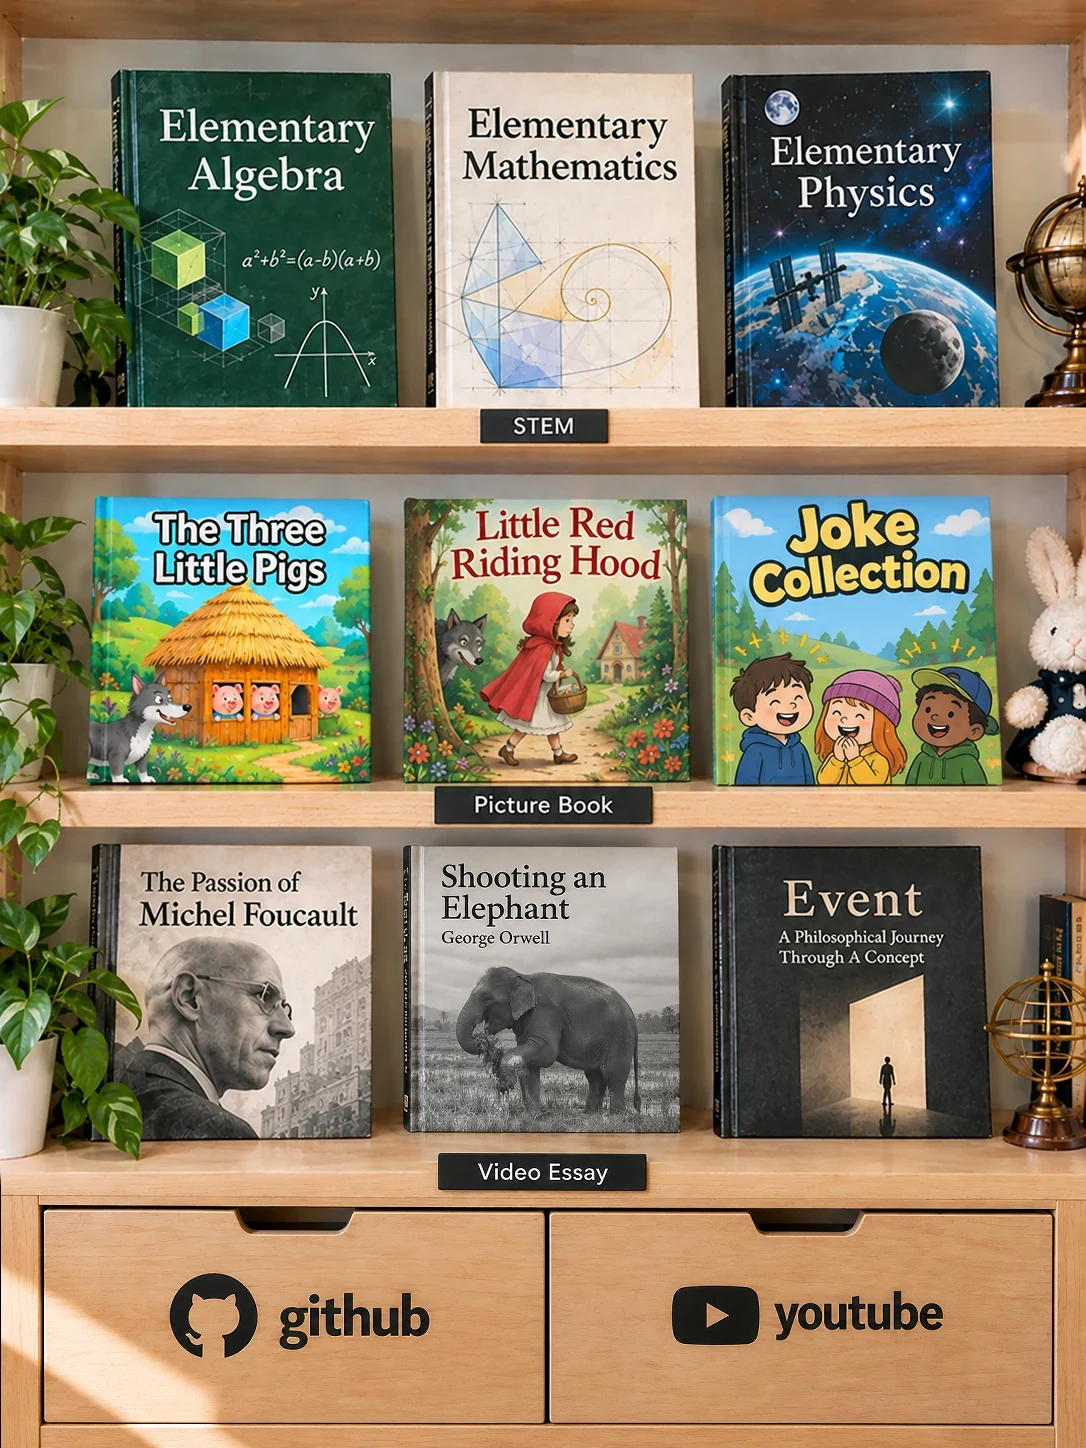
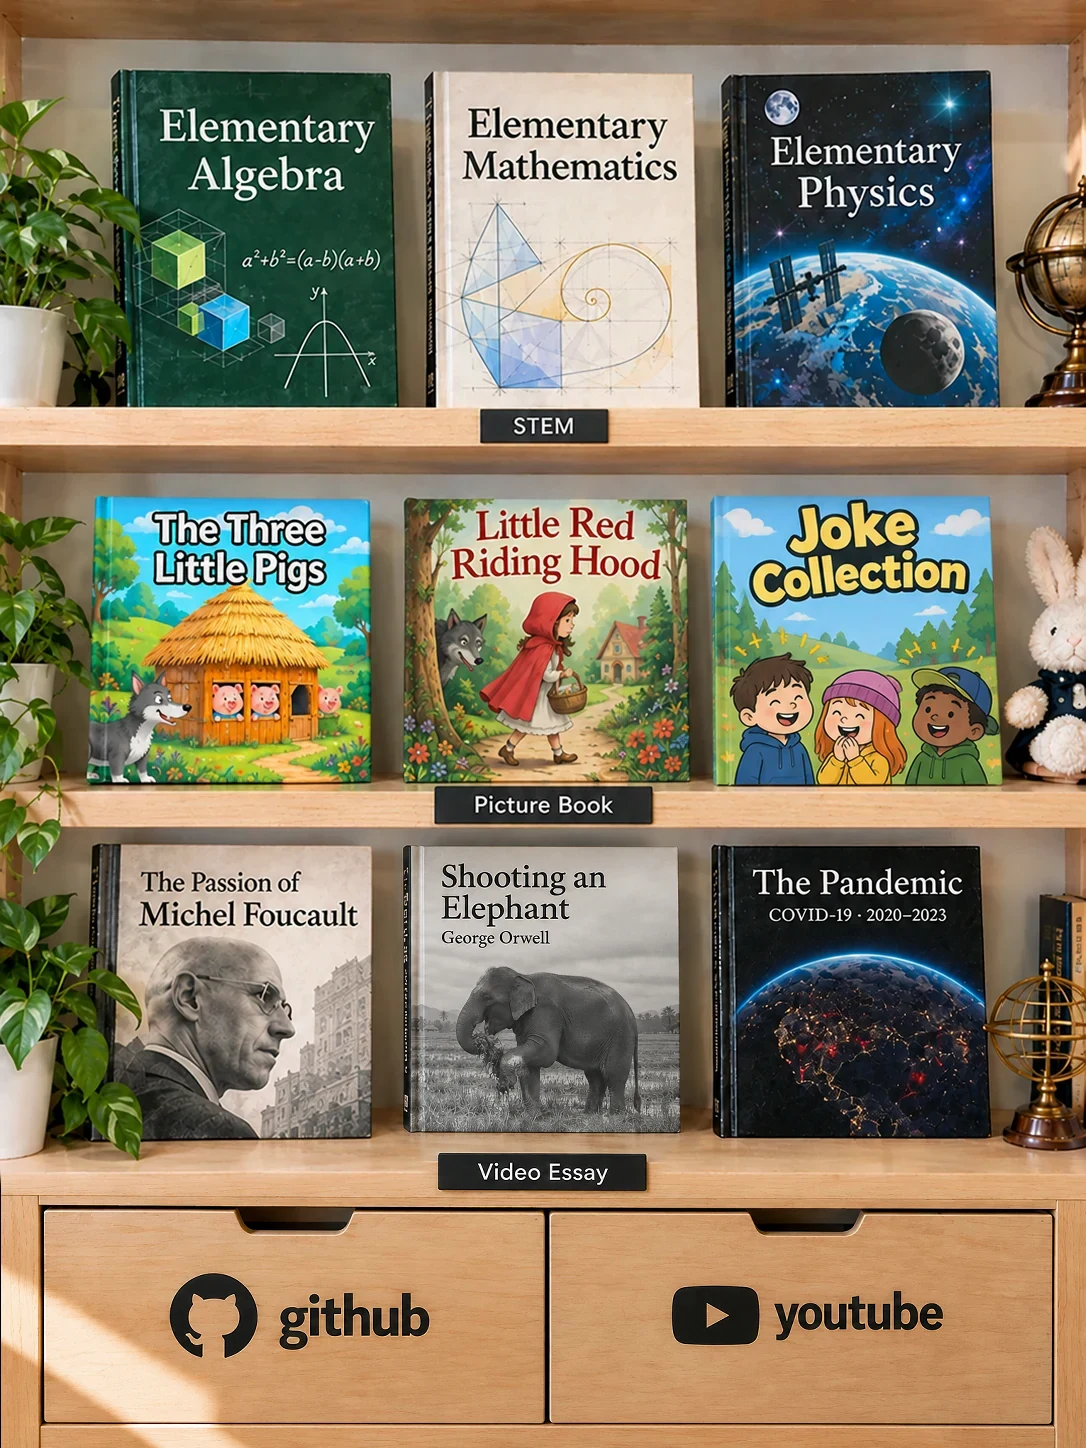
feat(shelf): The Pandemic on the bottom shelf, with a page on how it was made
- bookshelf photo: the placeholder "Event" book replaced by "The Pandemic"
  (image model edit, only that book's area pasted back into the photo)
- site/pandemic/index.html: the film's entry and how it was made, with sources
- film title is now "The Pandemic"; /pandemic/ no longer redirects to the shelf
- SOURCES.md: world map is Natural Earth 50m with OWID stay-at-home data

Changed region(s): [[0.6381, 0.5905, 0.9116, 0.808]]

diff --git a/site/pandemic/index.html b/site/pandemic/index.html
@@ -1,0 +1,176 @@
+<!doctype html>
+<html lang="en">
+<head>
+<meta charset="utf-8">
+<meta name="viewport" content="width=device-width, initial-scale=1">
+<title>The Pandemic</title>
+<meta name="description" content="A seven-minute documentary on COVID-19, from Wuhan to the unanswered question of where it came from, and how it was made with the Papermorph Skill.">
+<link rel="stylesheet" href="lib/fonts.css">
+<link rel="stylesheet" href="lib/book.css"><!-- only for --progress-key, if the book sets one -->
+<style>
+  :root { --ink: #2b2520; --soft: #6a6258; --paper: #ece3cd; --card: #f6f1e4; --line: #d8ccb2; --accent: #e5402f; --night: #15171c;
+    --ui: "Avenir Next", "Segoe UI", "Helvetica Neue", Arial, sans-serif; --serif: "EB Garamond", "Iowan Old Style", Palatino, Georgia, serif;
+    --key: "Oswald", "Avenir Next Condensed", "Arial Narrow", sans-serif; color-scheme: light; }
+  * { box-sizing: border-box; }
+  body { margin: 0; background: var(--paper); color: var(--ink); font: 19px/1.62 var(--serif); }
+  a { color: inherit; }
+  .top { background: var(--night); color: #f3ede0; }
+  .top nav { max-width: 1180px; margin: 0 auto; padding: 18px 24px 0; font: 500 14px/1 var(--key); letter-spacing: .14em; text-transform: uppercase; }
+  .top nav a { color: #d9b9b0; text-decoration: none; }
+  header { display: grid; grid-template-columns: minmax(0, 1.25fr) minmax(0, 1fr); gap: 40px; align-items: center; max-width: 1180px; margin: 0 auto; padding: 28px 24px 52px; }
+  header .film { position: relative; display: block; border-radius: 6px; overflow: hidden; box-shadow: 0 18px 50px #0008; }
+  header .film img { display: block; width: 100%; height: auto; }
+  header .film span { position: absolute; left: 18px; bottom: 16px; padding: 10px 18px; background: var(--accent); color: #fff; font: 600 16px/1 var(--key); letter-spacing: .12em; text-transform: uppercase; }
+  header .film:hover span, header .film:focus-visible span { background: #c8301f; }
+  .kicker { margin: 0 0 6px; color: var(--accent); font: 500 14px/1.2 var(--key); letter-spacing: .16em; text-transform: uppercase; }
+  h1 { margin: 0 0 10px; font: 600 clamp(40px, 5.4vw, 66px)/1 var(--key); letter-spacing: .02em; text-transform: uppercase; }
+  .lede { margin: 0 0 14px; font-size: 21px; color: #e6dccb; }
+  .meta { margin: 0; color: #b3a99a; font: 15px/1.5 var(--ui); }
+  .watched .meta::after { content: " · ✓ watched"; color: var(--accent); }
+  main { max-width: 760px; margin: 0 auto; padding: 24px 24px 40px; }
+  main h2 { margin: 56px 0 8px; font: 600 26px/1.2 var(--key); letter-spacing: .06em; text-transform: uppercase; }
+  main h2:first-child { margin-top: 32px; }
+  main p { margin: 0 0 16px; }
+  figure { margin: 26px -60px; }
+  figure img { display: block; width: 100%; height: auto; border-radius: 4px; box-shadow: 0 8px 26px #4a33182e; }
+  figcaption { margin: 8px 60px 0; color: var(--soft); font: 15px/1.5 var(--ui); }
+  .pair { display: grid; grid-template-columns: 1fr 1fr; gap: 14px; } .pair figcaption { grid-column: 1 / -1; margin-top: -6px; }
+  ol.steps { padding-left: 22px; } ol.steps li { margin-bottom: 8px; }
+  blockquote { margin: 18px 0; padding: 4px 0 4px 18px; border-left: 4px solid var(--accent); font-style: italic; }
+  .numbers { display: grid; grid-template-columns: repeat(3, 1fr); gap: 12px; margin: 18px 0; }
+  .numbers div { background: var(--card); border: 1px solid var(--line); border-radius: 6px; padding: 14px 16px; }
+  .numbers b { display: block; font: 600 30px/1.1 var(--key); color: var(--accent); }
+  .numbers span { font: 14px/1.4 var(--ui); color: var(--soft); }
+  code { font-size: .86em; background: #e2d7bd; padding: 1px 5px; border-radius: 3px; }
+  .credits { max-width: 1000px; margin: 20px auto 70px; padding: 0 24px; color: var(--soft); font: 14px/1.6 var(--ui); }
+  .credits h2 { font: 600 20px/1.3 var(--key); letter-spacing: .06em; text-transform: uppercase; color: var(--ink); }
+  .credits h3 { font-size: 13px; letter-spacing: .06em; text-transform: uppercase; margin: 18px 0 6px; color: var(--ink); }
+  .credits ul { margin: 0; padding-left: 18px; columns: 2 340px; }
+  @media (max-width: 860px) { figure { margin: 22px 0; } figcaption { margin: 8px 0 0; } }
+  @media (max-width: 760px) { header { grid-template-columns: 1fr; gap: 24px; } header .film span { left: 10px; bottom: 10px; padding: 7px 11px; font-size: 13px; } .pair, .numbers { grid-template-columns: 1fr; } }
+</style>
+</head>
+<body>
+<div class="top">
+  <nav><a href="../">← Bookshelf</a></nav>
+  <header id="film">
+    <a class="film" href="ch01/"><img src="img/cover.webp" width="1400" height="788" alt="The night globe behind two numbers: 7,115,706 confirmed COVID-19 deaths, and 27,000,000 estimated from excess deaths."><span>▶ Watch the film</span></a>
+    <div>
+      <p class="kicker">A documentary · COVID-19</p>
+      <h1>The Pandemic</h1>
+      <p class="lede">From a market in Wuhan to a world that stopped, the waves, the count of the dead, and the question nobody has answered: where it came from.</p>
+      <p class="meta">7 minutes · English with subtitles · made with the Papermorph Skill</p>
+    </div>
+  </header>
+</div>
+
+<main>
+  <h2>What we set out to do</h2>
+  <p>Our earlier documentary, <a href="../madness/"><i>Madness and Civilization</i></a>, is pictures and words. This one tries the other kind of explainer, the kind Vox and Johnny Harris make: maps that move, numbers that land on the word that says them, documents pulled into frame and marked up. The subject was chosen for that: the pandemic happened on a map, day by day, and almost everything about it was counted.</p>
+  <p>Before any frame was made, Claude studied three of those videos cut by cut and wrote down how each transition works: what carries the eye from one picture to the next, where the camera goes, how long a number stays on screen. Those notes, not a style sheet, were the brief.</p>
+
+  <h2>One map, all the way through</h2>
+  <p>The film has one spine: a warm paper map of the world with a date chip in the corner. It comes back in every part with something new on it: one dot in Wuhan, then the train lines out of the city before the New Year, then the countries telling people to stay home, then the deaths per million, wave after wave.</p>
+  <figure class="pair">
+    <img src="img/making/paper.webp" width="1200" height="675" alt="The paper map zoomed in on Wuhan, with the chip December 2019." loading="lazy">
+    <img src="img/making/migration.webp" width="1200" height="675" alt="Railway lines leaving Wuhan on the paper map, with a clock at 2:38 a.m. on 23 January 2020." loading="lazy">
+    <figcaption>The paper map in December 2019, then the night before Wuhan closed: trains still leaving at 2:38 a.m.</figcaption>
+  </figure>
+  <p>When the story leaves one place for the whole world, the map becomes a night globe (three.js, NASA's Black Marble city lights). Both are drawn in the same orthographic projection, so the globe can turn, push in, and become the paper map without a cut. The countries are Natural Earth outlines, projected once with d3-geo into small script files, so the finished page needs no server and no map service.</p>
+  <figure>
+    <img src="img/making/genes.webp" width="1200" height="675" alt="The night globe seen from above the North Pole, red arcs from Europe to New York and a grey one from Asia, under the line Most of New York's early cases came from Europe." loading="lazy">
+    <figcaption>The globe turned over the pole, so Asia and Europe can both reach New York in one picture.</figcaption>
+  </figure>
+
+  <h2>One source for every number</h2>
+  <p>Every number on screen comes from one named source, written in small type under it: Our World in Data for cases, deaths, vaccines and stay-at-home orders; Wikipedia for events and dates; the WHO's own transcript for its words. The two do not always agree. Our World in Data counts by the day a death was reported, so it lags behind the news: by its count Italy passed China a few days after Wikipedia says it did. Where they disagree, the narration was written around the date rather than mixing the two.</p>
+  <p>Counters roll up as the voice says the number and stop exactly on it. The stay-at-home map counts the countries as the date runs, so when the narration says “more than a hundred and twenty”, the counter reads 121 and the date chip shows the first day that was true.</p>
+  <figure>
+    <img src="img/making/who.webp" width="1200" height="675" alt="The WHO Director-General's remarks of 11 March 2020 on a paper card, with the word pandemic and the phrase cases in 114 countries highlighted." loading="lazy">
+    <figcaption>The WHO's words of 11 March 2020, highlighted as they are spoken. A first version stamped PANDEMIC across the screen; the user turned it down, and the transcript replaced it.</figcaption>
+  </figure>
+
+  <h2>A part at a time</h2>
+  <p>It began as a 107-second sample: the cold open, Wuhan, the doctors who were silenced, and the trains. The user watched it, liked it, and asked for the rest of the same film, one part at a time, under ten minutes. Every part went through the same steps:</p>
+  <ol class="steps">
+    <li><b>Research.</b> The Wikipedia articles and the Our World in Data tables, saved locally with their revision numbers.</li>
+    <li><b>Narration</b>, written in our own words, with a mark on every word that triggers something on screen.</li>
+    <li><b>Voice.</b> ElevenLabs v4, the voice “Roger”, sped up 1.1 times. The word times it returns place every mark.</li>
+    <li><b>Beats</b>, built in code and checked on contact sheets of stills before anything moved.</li>
+    <li><b>Music.</b> One track per part from Google's Lyria 3, levelled to the others, crossfading over two seconds so the music never stops.</li>
+    <li><b>Review.</b> The part exported as a video, and a fresh Claude, with no memory of making it, watching the frames as a director.</li>
+  </ol>
+  <figure>
+    <img src="img/making/waves.webp" width="1200" height="675" alt="The world map shaded by deaths per million in April 2021, with a Delta pin on India, above two curves of cases and deaths a day." loading="lazy">
+    <figcaption>The waves: one map and two curves that keep running, with a pin for each variant where it was first found.</figcaption>
+  </figure>
+
+  <h2>What the reviews caught</h2>
+  <p>Three director reviews watched the film from frames alone and checked every claim against the saved sources. They found things a maker misses: two different dates on screen at once; a vaccine rewind that stopped in November while the label said 2 December; three seconds of empty paper under a sentence about money; a question mark that sat on the market's label, so it read as “the market?” instead of “which one?”. Each finding came with a time, a reason and a fix, and the next round checked the fixes.</p>
+  <p>The user's own notes changed the film more. The opening first said the pandemic was “the biggest crisis of our generation, and we are already forgetting it”; the user kept only the first half, and the line was cut from the recording rather than voiced again. The join between the approved sample and the new parts looked like two films, so the sample's last picture now fades faster. A world map that stayed white while the death toll climbed beneath it got its own colour, deaths per million.</p>
+  <figure>
+    <img src="img/making/count.webp" width="1200" height="675" alt="A grid of dots on black: the counted dead in solid red, the uncounted in faint outlines, under the words about 27 million, the likeliest estimate." loading="lazy">
+    <figcaption>The count: one dot for 100,000 people. Seven million were counted; the likeliest estimate is closer to twenty-seven.</figcaption>
+  </figure>
+
+  <h2>The question left open</h2>
+  <p>The first outline left out where the virus came from. Near the end the user asked for it, with one rule: “don't favour zoonosis; treat them fairly.” The two answers get the same card, the same size and colour, one fact each and about the same time. The film says who leans which way: many scientists and the WHO-convened study towards a natural spillover, the FBI and the US Department of Energy towards a laboratory accident. It ends on what is known for certain: the early patient lists, swabs and blood samples were never fully shared.</p>
+  <figure>
+    <img src="img/making/origin.webp" width="1200" height="675" alt="The paper map of Wuhan with the Huanan Seafood Market and the Wuhan Institute of Virology pinned, and two identical cards: Nature, and A laboratory accident." loading="lazy">
+    <figcaption>Two answers, drawn alike.</figcaption>
+  </figure>
+
+  <h2>The numbers</h2>
+  <div class="numbers">
+    <div><b>7.4 min</b><span>30 beats, 1,052 words of narration</span></div>
+    <div><b>$0.59</b><span>voice, every take included (ElevenLabs v4 via OpenRouter)</span></div>
+    <div><b>$0.48</b><span>music, six tracks of Lyria 3 at $0.08</span></div>
+    <div><b>29</b><span>pictures and data files, each listed with its source and licence</span></div>
+    <div><b>3</b><span>director reviews, besides one for each new part</span></div>
+    <div><b>0</b><span>servers: the film is one static page</span></div>
+  </div>
+  <p>Everything else, the research, the script, the code for every beat and the reviews, was done by Claude (Opus) with the <a href="https://github.com/DozenTwelve/Papermorph" target="_blank" rel="noopener noreferrer">Papermorph Skill</a>, with the user watching each cut and giving notes.</p>
+</main>
+
+<section class="credits">
+  <h2>Sources and credits</h2>
+  <p>Narration written from Wikipedia (“COVID-19 pandemic”, “COVID-19 pandemic in Italy”, “COVID-19 pandemic in New York City”, “Origin of SARS-CoV-2”) and Our World in Data (CC BY 4.0); the WHO quotations are from the Director-General's remarks of 11 March 2020 and the statement of 5 May 2023. Voice: ElevenLabs v4. Music: Google Lyria 3, made for this film. Type: Oswald and EB Garamond (SIL Open Font License, <code>lib/fonts/</code>). The seven doctors besides Li Wenliang, who are not identified, are stand-ins made with an image model and tagged as such on screen.</p>
+  <h3>Pictures</h3>
+  <ul>
+    <li><a href="https://commons.wikimedia.org/wiki/File:Novel_Coronavirus_SARS-CoV-2_(49597020718).jpg">Novel Coronavirus SARS-CoV-2</a>, NIAID · Public domain</li>
+    <li>Empty Beijing airport, Mx. Granger · CC0</li>
+    <li><a href="https://commons.wikimedia.org/wiki/File:Glenview_March_2020_24.jpg">Glenview March 2020</a> 05 and 24, C. E. Miller · Public domain</li>
+    <li><a href="https://commons.wikimedia.org/wiki/File:EmptyHwy407.jpg">Empty Highway 407</a>, Raysonho · CC0</li>
+    <li>School closed banner, Cyan&amp;Orange · CC0</li>
+    <li>Empty classroom, U.S. Army, Pfc. Kaden Pitt · Public domain</li>
+    <li>Masked officer, U.S. Customs and Border Protection · Public domain</li>
+    <li><a href="https://www.dvidshub.net/image/6178786/">Hawaii National Guard</a>, Sgt. John Schoebel · Public domain</li>
+    <li>Nurses in face shields, U.S. Navy, PO3 Jacob L. Greenberg · Public domain</li>
+    <li><a href="https://www.flickr.com/photos/184594136@N08/49703752138/">Closed signs</a>, Alabama Extension · CC0</li>
+    <li><a href="https://earthobservatory.nasa.gov/features/NightLights/page3.php">Black Marble 2016</a>, NASA Earth Observatory · Public domain</li>
+    <li><a href="https://commons.wikimedia.org/wiki/File:COVID-19_Pneumonie_-_74m_CTax_-_002.jpg">COVID-19 pneumonia CT</a>, Hellerhoff · <a href="https://creativecommons.org/licenses/by-sa/3.0/">CC BY-SA 3.0</a>, toned</li>
+    <li><a href="https://commons.wikimedia.org/wiki/File:Roadblock_in_Wuhan_on_January_29th,_2020_-_2.jpg">Roadblock in Wuhan, 29 January 2020</a>, 汮汐 · <a href="https://creativecommons.org/licenses/by-sa/4.0/">CC BY-SA 4.0</a>, toned</li>
+    <li>Li Wenliang's own selfie, posted on Weibo · fair use, for commentary</li>
+    <li><a href="https://commons.wikimedia.org/wiki/File:USNS_Comfort_New_York_City_2020.jpg">USNS Comfort in New York</a>, U.S. Navy · Public domain</li>
+    <li><a href="https://commons.wikimedia.org/wiki/File:Mortuary_Trucks_in_New_York_City_by_Archer_West.jpg">Mortuary trucks in New York City</a>, Archer West · <a href="https://creativecommons.org/licenses/by/4.0/">CC BY 4.0</a></li>
+    <li><a href="https://commons.wikimedia.org/wiki/File:Nitrogen_dioxide_Density_Change_In_China_Due_To_Coronavirus.png">Nitrogen dioxide over China</a>, NASA Earth Observatory, ESA Sentinel-5P data · Public domain</li>
+    <li><a href="https://commons.wikimedia.org/wiki/File:Empty_toilet_paper_shelves_(49665873706).jpg">Empty shelves</a>, Dan Keck · CC0</li>
+  </ul>
+  <h3>Maps and data</h3>
+  <ul>
+    <li><a href="https://www.naturalearthdata.com/">Natural Earth</a> countries, provinces and places · Public domain</li>
+    <li><a href="https://ourworldindata.org/coronavirus">Our World in Data</a>: cases, deaths, vaccinations, first cases, reporting · CC BY 4.0</li>
+    <li><a href="https://ourworldindata.org/covid-stay-home-covid">Our World in Data</a>: stay-at-home requirements (Oxford COVID-19 Government Response Tracker) · CC BY 4.0</li>
+    <li>SARS-CoV-2 reference sequence <a href="https://www.ncbi.nlm.nih.gov/nuccore/NC_045512.2">NC_045512.2</a>, NCBI · Public domain</li>
+  </ul>
+</section>
+
+<script>
+'use strict';
+// The player records finished films under the same key as here (engine progress(): lib/book.css --progress-key, else this folder's path).
+const key = getComputedStyle(document.documentElement).getPropertyValue('--progress-key').trim().replace(/^["']|["']$/g, '')
+  || 'animebook:progress:' + new URL('.', location.href).pathname;
+try { if ((JSON.parse(localStorage.getItem(key) || '{}').done || []).includes(1)) document.getElementById('film').classList.add('watched'); } catch {}
+</script>
+</body>
+</html>

diff --git a/site/index.html b/site/index.html
@@ -25,7 +25,7 @@
     <p>Animated books · A growing collection</p>
   </header>
   <figure class="photo-shelf" aria-label="Three shelves: STEM, picture books for children, and video essays">
-    <img class="shelf-photo" src="assets/bookshelf.webp" width="1086" height="1448" alt="A wooden bookshelf. Algebra, mathematics and physics books on the top shelf marked STEM; picture books on the middle shelf: The Three Little Pigs, Little Red Riding Hood and Joke Collection; philosophy and history books on the bottom shelf marked Video Essay, among them Shooting an Elephant; two drawers below, marked GitHub and YouTube." fetchpriority="high">
+    <img class="shelf-photo" src="assets/bookshelf.webp" width="1086" height="1448" alt="A wooden bookshelf. Algebra, mathematics and physics books on the top shelf marked STEM; picture books on the middle shelf: The Three Little Pigs, Little Red Riding Hood and Joke Collection; philosophy and history books on the bottom shelf marked Video Essay, among them Shooting an Elephant and The Pandemic; two drawers below, marked GitHub and YouTube." fetchpriority="high">
     <div id="shelf-books">
       <section class="shelf-tier" aria-labelledby="stem-title">
         <h2 class="visually-hidden" id="stem-title">STEM · Mathematics</h2>
@@ -58,6 +58,9 @@
         </a>
         <a class="book-hotspot elephant-book" data-book="shooting-an-elephant" href="shooting-an-elephant/" aria-label="Open Shooting an Elephant, an interactive documentary of George Orwell's essay">
           <span class="book-caption"><strong>Shooting an Elephant <span aria-hidden="true">↗</span></strong><small>An interactive documentary · George Orwell</small></span>
+        </a>
+        <a class="book-hotspot pandemic-book" data-book="pandemic" href="pandemic/" aria-label="Open The Pandemic, a seven-minute documentary on COVID-19, and how it was made">
+          <span class="book-caption"><strong>The Pandemic <span aria-hidden="true">↗</span></strong><small>A documentary · how it was made</small></span>
         </a>
       </section>
     </div>

diff --git a/site/lib/bookshelf.css b/site/lib/bookshelf.css
@@ -35,6 +35,8 @@ a { color: inherit; }
 .foucault-book .book-caption { background: linear-gradient(110deg, #6a1420f5, #3e0a12f2); }
 .elephant-book { left: 37.1%; width: 25.6%; top: 58.4%; height: 19.9%; }
 .elephant-book .book-caption { background: linear-gradient(110deg, #1d3527f5, #0e1d14f2); }
+.pandemic-book { left: 65.5%; width: 25.9%; top: 58.3%; height: 20.3%; }
+.pandemic-book .book-caption { background: linear-gradient(110deg, #8a2a1ef5, #2a1410f2); }
 .book-hotspot:hover { box-shadow: 0 0 0 2px #f7d998b3, 0 0 28px #edc97833; }
 #shelf a:focus-visible { outline: 3px solid #f4d786; outline-offset: 5px; }
 .book-caption { position: absolute; bottom: 0; left: 0; right: 0; display: flex; flex-direction: column; justify-content: center; gap: .35cqw; min-height: 6.45cqw; padding: 1.1cqw 1.2cqw .9cqw; color: #faf7e9; background: linear-gradient(110deg, #263d32f5, #182a23f0); box-shadow: 0 -2px 8px #0003; font: 1.4cqw/1.25 var(--ui); transition: background .2s; }

diff --git a/site/pandemic/ch01/index.html b/site/pandemic/ch01/index.html
@@ -3,7 +3,7 @@
 <head>
 <meta charset="utf-8">
 <meta name="viewport" content="width=device-width, initial-scale=1">
-<title>The Forgotten Crisis</title>
+<title>The Pandemic</title>
 <link rel="stylesheet" href="../lib/engine.css">
 <link rel="expect" href="#bar" blocking="render">
 </head>
@@ -21,7 +21,7 @@
 <script src="../lib/doc.js"></script>
 <script>
 'use strict';
-const CHAPTER = { number: 1, title: 'The Forgotten Crisis', minutes: 8, language: 'en', lead: false };
+const CHAPTER = { number: 1, title: 'The Pandemic', minutes: 7, language: 'en', lead: false };
 
 const CN = ['Beijing', 'Shanghai', 'Guangzhou', 'Chongqing', 'Chengdu', 'Xian', 'Zhengzhou', 'Changsha', 'Nanjing', 'Hangzhou', 'Shenzhen', 'Harbin', 'Kunming'];
 const C = n => GEO.cities[n];

diff --git a/site/pandemic/img/SOURCES.md b/site/pandemic/img/SOURCES.md
@@ -27,9 +27,10 @@ The code in this repository is MIT. The pictures and data here keep their own li
 | `shelves-empty.webp` | [Empty toilet paper shelves](https://commons.wikimedia.org/wiki/File:Empty_toilet_paper_shelves_(49665873706).jpg) | Dan Keck | CC0 |
 | `street-glenview-05.webp` | Glenview March 2020 05, Wikimedia Commons | C. E. Miller | Public domain |
 | `closed-sign-handwritten.webp` | Alabama Extension, Flickr | Alabama Extension | CC0 |
-| `geo-world.js` | [Natural Earth](https://www.naturalearthdata.com/) 110m, projected; stringency index from [Our World in Data](https://ourworldindata.org/covid-stringency-index) | Natural Earth; OWID | Public domain; CC BY 4.0 |
+| `geo-world.js` | [Natural Earth](https://www.naturalearthdata.com/) 50m, projected; stay-at-home requirements and deaths per million from [Our World in Data](https://ourworldindata.org/covid-stay-home-covid) | Natural Earth; OWID | Public domain; CC BY 4.0 |
 | `waves.js` | World cases, deaths and vaccinations, weekly, [Our World in Data](https://ourworldindata.org/coronavirus) | Our World in Data | CC BY 4.0 |
 | `quiet.js` | Which countries reported new cases each week, 2022–2024, [Our World in Data](https://ourworldindata.org/coronavirus) | Our World in Data | CC BY 4.0 |
 | `geo-eu.js` | [Natural Earth](https://www.naturalearthdata.com/), projected (Italy and the North Atlantic) | Natural Earth | Public domain |
 | genome strip (in `ch01/index.html`) | SARS-CoV-2 reference sequence [NC_045512.2](https://www.ncbi.nlm.nih.gov/nuccore/NC_045512.2), bases 1–600 | NCBI | Public domain (US government database) |
 | `spread.js` | First case per country, [Our World in Data](https://ourworldindata.org/coronavirus) | Our World in Data | [CC BY 4.0](https://creativecommons.org/licenses/by/4.0/) |
+| `cover.webp`, `making/*.webp` | Stills of this film, for the series page | Papermorph | MIT, like the code (the pictures in them keep their own licences) |
